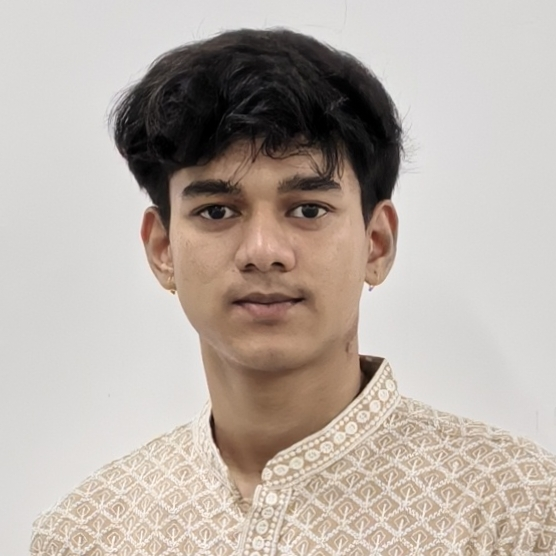
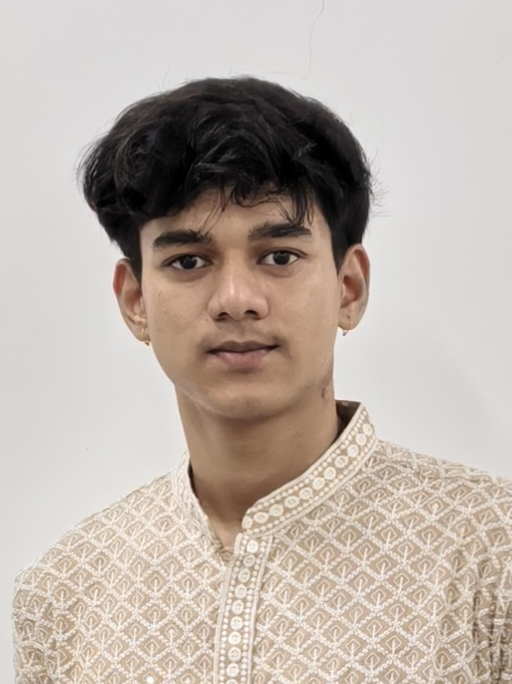
feat: new 53-player roster with photo mappings for all sports

Changed region(s): [[0.0, 0.0306, 1.0, 1.0], [0.6562, 0.3058, 0.75, 0.5198]]

diff --git a/src/utils/playerPhotos.ts b/src/utils/playerPhotos.ts
@@ -1,116 +1,89 @@
-// Player photo mappings - all students included
+// Player photo mappings for the 53 selected auction players
+// Maps player name (as stored in DB) → image path in /public
 const PLAYER_PHOTOS: Record<string, string> = {
-  // Existing mapped players
-  "Aryan Jaiswal": "/Aryan Jaiswal.jpg",
-  "Krish Mishra": "/Krish Mishra.jpg",
-  "Dhruv Prajapati": "/Dhruv Prajapati.jpeg",
-  "Shubham Mishra": "/Shubham Mishra.jpg",
-  "Aarsh Kamboj": "/Aarsh Kamboj.jpg",
-  "Gaurav Tiwari": "/Gaurav Tiwari.jpg",
-  "Ankur Singh Chauhan": "/Ankur Singh Chauhan.jpg",
-  "Ishaan Sharma": "/Ishaan Sharma.png",
-  "Harshit Singh Chauhan": "/Harshit Singh Chauhan.jpg",
-  "Sundaram Sinha": "/Sundaram Sinha.jpg",
+  // Athletics girls
+  "Myra Tyagi": "/Myra tyagi.jpg",
   "Prashansa Chauhan": "/Prashansa Chauhan.png",
-  "Adhya Gupta": "/Adhya Gupta.jpg",
-  "Suraj": "/suraj malik.jpg",
-  "Daksh": "/Daksh.jpg",
-  "Anshul": "/Anshul.jpg",
-  "Bhumik": "/bhumik.jpg",
-  "Vasu": "/Vasu.jpg",
-  "Kush": "/Kush Narwal.jpg",
-  "Bhanu Pratap": "/Bhanu Pratap.JPG",
-  "Vansh Sehrawat": "/Vansh Sehrawat.jpeg",
-  "Vineet": "/Vineet.jpg",
-  "Ashutosh": "/Ashutosh.jpg",
-  "Aditya Rai": "/Aditya Rai.jpg",
-  "Aditya Mittal": "/Aditya Mittal.jpg",
+
+  // Badminton boys
+  "Harshit dhankar": "/Harshit dhankar.jpg",
+  "Ishant kathait": "/Ishant kathait.jpg",
+  "mayank yadav": "/mayank yadav.jpg",
+  "arjun nema": "/arjun nema.jpg",
+  "savi arora": "/savi arora.jpg",
+
+  // Badminton girls
+  "Bhumika garg": "/Bhumika Garg.jpg",
+  "Neharika": "/Neharika.jpg",
+
+  // Basketball girls
+  "Anushka singh": "/Anushka Singh.png",
+  "aakarshi nigam": "/Aakarshi Nigam.jpeg",
+  // pragya saraswat, kanan seherawat, vanshika dhaka, meenal, pallavi — images not yet provided
+
+  // Chess
+  "Harshit Singh Chauhan": "/Harshit Singh Chauhan.jpg",
+
+  // Cricket
+  "kaustubh": "/kaustubh.jpg",
+  "shivansh": "/shivansh.JPG",
+  "Dabeer": "/Dabeer.jpg",
+  "anubhav": "/anubhav.jpg",
+  "Aditya": "/Aditya.jpg",
+
+  // Football
+  "Shreedar": "/Shreedar.jpg",
+  "Abhinav Baisoya": "/Abhinav Baisoya.jpg",
+  "Soham Aich": "/Soham Aich.jpg",
+  "Jai Kadian": "/Jai Kadian.jpg",
+  "Akshat Khandelwal": "/Akshat Khandelwal.jpg",
+  "Ajay Adhikari": "/Ajay Adhikari.jpg",
+  "Sarthak Singhal": "/Sarthak Singhal.jpg",
+  "Sarvagya Mishra": "/Sarvagya Mishra.jpg",
+
+  // Kabaddi
+  "Pranjal": "/Pranjal.jpg",
+  "Shlesh": "/Shlesh.jpg",
+  "Bhanu": "/Bhanu.jpg",
+  "Shubham": "/Shubham.png",
+
+  // Pickleball girls (Myra Tyagi already mapped above)
+
+  // Pool and snooker
+  "Harshit Agarwal": "/Harshit Agarwal.jpg",
+
+  // Squash
+  "Shaurya Rastogi": "/Shaurya Rastogi .jpeg",
+
+  // Swimming
+  "Ashmit Punia": "/ashmit photo.jpeg",
+
+  // Table tennis boys
+  "Navam Upadhyay": "/Navam Upadhyay.jpg",
+
+  // Table tennis girls
+  "Aarya Giri": "/Aarya giri.jpg",
+
+  // Tennis boys
+  "Sarman Raj": "/Sarman raj.jpg",
+
+  // Tennis girls (Myra Tyagi already mapped above)
+
+  // Volleyball boys
   "Mayank Sah": "/Mayank Sah.jpg",
-  "Nikunj Panwar": "/Nikunj Panwar.jpg",
-  "Rudra Pratap": "/Rudra Pratap.jpg",
-  "Yatharth Tyagi": "/Yatharth Tyagi.HEIC",
+  "Nikunj": "/Nikunj.jpg",
+  "Shresth Singh": "/Shresth Singh.JPG",
   "Kunal": "/Kunal.jpg",
   "Harsh Chandel": "/Harsh Chandel.jpg",
-  "Surya Pratap Singh Rathod": "/Surya Pratap Singh Rathod.jpg",
-  "Aditya kumar": "/Aditya kumar.jpg",
-  "Kunsh kakkar": "/KUNSH.jpg",
-  "Dhruv agarwal": "/Dhruv agarwal.jpg",
-  "Ryann singh": "/Ryann singh.jpg",
-  "Sarman raj": "/Sarman raj.jpg",
-  "Lakshay kumar": "/Lakshay kumar.jpg",
+  "Prince": "/Prince.jpg",
+
+  // Volleyball girls
   "Prarthana Rana": "/Prarthana Rana.jpg",
   "Stuti Agarwal": "/Stuti Agarwal.jpg",
   "Neeyati Shukla": "/Neeyati Shukla.jpg",
   "Divyanshi": "/Divyanshi.jpg",
-  "Angil": "/Angil.jpg",
-  "Tanvi Singhla": "/Tanvi Singh.jpg",
-  "Palakpreet Kaur": "/Palakpreet Kaur.jpg",
-  "Vandita Goel": "/Vandita Goel.jpg",
-  "Lavanya": "/Lavanya.jpg",
-  "Ashima": "/Ashima.jpg",
-  "Rashi Rajput": "/Rashi.jpg",
-  "Uddhav Parihar": "/Uddhav Parihar.jpg",
-  "Aman Singh": "/Aman Singh.jpg",
-  "Ananya Barath": "/Ananya Barath.jpg",
-  "Kashvi Garg": "/Kashvi Garg.jpg",
-  "Saumya Sharma": "/Saumya Sharma.jpg",
-  "Myra tyagi": "/Myra tyagi.jpg",
-  "Sanvi ahuja": "/Sanvi ahuja.jpg",
-  "Mishika daver": "/Mishika daver.jpg",
-  "Mahek advani": "/Mahek advani.jpg",
-  "Nishit Nama": "/Nishit Nama.jpg",
-  "Harshit Agarwal": "/Harshit Agarwal.jpg",
-  "Navya Loshali": "/Navya Loshali.jpg",
-  "Agrima Jain": "/Agrima Jain.jpg",
-  "Tanvi Singh": "/Tanvi Singh.jpg",
-  "Aarya giri": "/Aarya giri.jpg",
-  "Nehum Baid": "/Nehum Baid.jpg",
-  "Sriraam Rajendran": "/Sriraam Rajendran.jpg",
-  "Nakul Kansal": "/nakul.jpg",
-  "Aditya Kumar": "/Aditya kumar.jpg",
-  "Ryann Singh": "/Ryann singh.jpg",
-  "Dhruv Agarwal": "/Dhruv agarwal.jpg",
-  "Sudarshan Yadav": "/Sudarshan Yadav.jpg",
-  "Akash Sharma": "/Akash Sharma.jpg",
-  "Dhruv": "/Dhruv agarwal.jpg",
-  "Pranay Wadhwa": "/Pranay Wadhwa.jpg",
-  "Lavish Solanki": "/Lavish Solanki.jpg",
-  "Navam Upadhyay": "/Navam Upadhyay.jpg",
-  "Krish Jhinkwan": "/Krish Jhinkwan.jpg",
-  "Ananya Saxena": "/Ananya Saxena.jpg",
-  "Bhumika Garg": "/Bhumika Garg.jpg",
-  "Anmol Upadhyay(vc)": "/Anmol Upadhyay(vc).jpeg",
-  "Ridhi Garg": "/Ridhi Garg.jpeg",
-  "Sania Tyagi": "/Sania Tyagi.jpeg",
-  "Anushka Singh": "/Anushka Singh.png",
-  "Aakarshi Nigam": "/Aakarshi Nigam.jpeg",
-  "anubhav": "/anubhav.jpg",
-  "jatin solanki": "/jatin solanki.jpg",
-  "vansh mathur": "/vansh mathur.jpg",
-  "chirag jain": "/chirag jain.jpg",
-  "nimish jain": "/nimish jain.jpg",
-  "Sehej Joshi": "/Sehej Joshi.jpg",
-  "Aditya Siwach": "/Aditya Siwach.jpg",
-  "Aasu Tomar": "/Aasu.jpg",
-
-  // Newly added missing students with mixed extensions (.jpg / .HEIC)
-  "Ashmit Punia": "/Ashmit Punia.png",
-  "Akshat Khandelwal": "/Akshat.jpg",
-  "Soham Aich": "/Soham.jpg",
-  "Dev soni": "/Dev Soni.jpg",
-  "Harshit dhaundiyal": "/Harshit Dhaundiyal .jpg",
-  "Shourya": "/Shourya.jpg",
-  "Anmol Upadhyay": "/Anmol Upadhyay(vc).jpeg",
-  "shivansh": "/shivansh.jpg",
-  "Utkarsh raj": "/Uttkarsh.jpg",
-  "Abhinav Baisoya": "/Abhinav.jpg",
-  "Rudraksh Chaudhary": "/Rudraksh.jpg",
-  "Priyanshu Chauhan": "/Priyanshu.jpg",
-  "Karthek G": "/Karthek G.jpg",
-  "anshul gaur": "/anshul gaur.jpg",
-  
+  "Prashansha": "/Prashansha.jpg",
 };
-
 
 
 /**
@@ -119,7 +92,16 @@ const PLAYER_PHOTOS: Record<string, string> = {
  * @returns Local photo path or undefined if not found
  */
 export function getPlayerPhoto(playerName: string): string | undefined {
-  return PLAYER_PHOTOS[playerName];
+  // Try exact match first
+  if (PLAYER_PHOTOS[playerName]) return PLAYER_PHOTOS[playerName];
+  
+  // Try case-insensitive match
+  const lowerName = playerName.toLowerCase();
+  for (const [key, value] of Object.entries(PLAYER_PHOTOS)) {
+    if (key.toLowerCase() === lowerName) return value;
+  }
+  
+  return undefined;
 }
 
 /**
@@ -135,4 +117,3 @@ export function normalizePlayerPhoto(playerName: string, photoUrl?: string): str
   // Use local photo if available, otherwise use the provided URL, or fallback to placeholder
   return localPhoto || photoUrl || "/placeholder.svg";
 }
-
